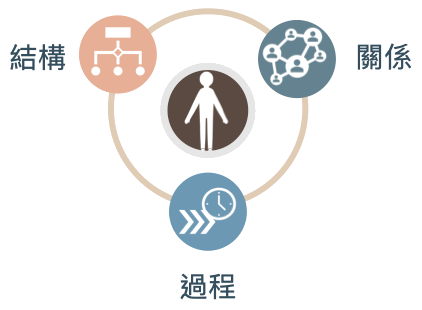
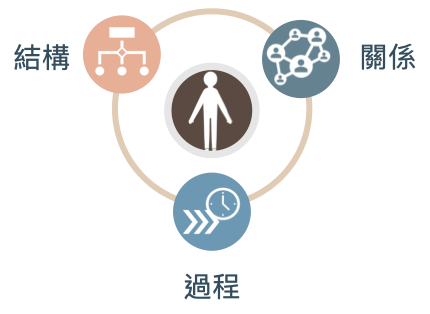
修正S30三向度圖去背暈邊：改用漸層alpha去背取代二值化門檻，消除邊緣灰濛濛的白色暈影

diff --git a/index.html b/index.html
@@ -472,7 +472,7 @@ body.no-clickzones .click-zones{display:none}
   <h2>個體存有學三向度</h2>
   <div class="grid2" style="align-items:center;gap:2.6vw">
     <div class="relwrap" style="text-align:center">
-      <img src="images/dim3-circles.png" width="422" height="310" alt="結構、關係、過程三個交疊的圓，中心為完整的人" style="width:100%;height:auto;max-height:60vh;object-fit:contain">
+      <img src="images/dim3-circles.png" width="430" height="314" alt="結構、關係、過程三個交疊的圓，中心為完整的人" style="width:100%;height:auto;max-height:60vh;object-fit:contain">
     </div>
     <div>
       <p class="lead" style="max-width:none">結構、關係、過程——這三個向度不是分開的欄位，而是<b>同一個人</b>的三種看法，彼此交疊。</p>